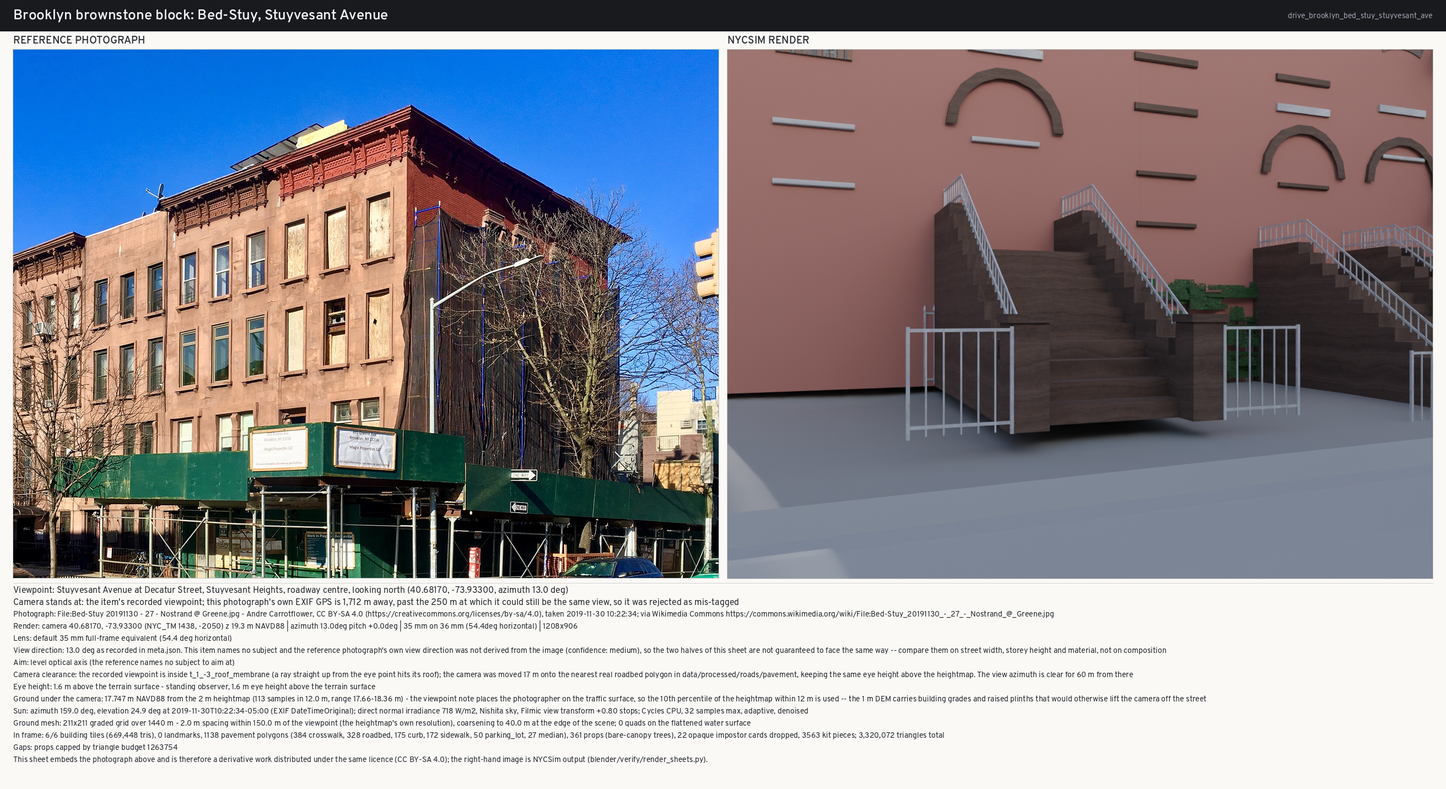
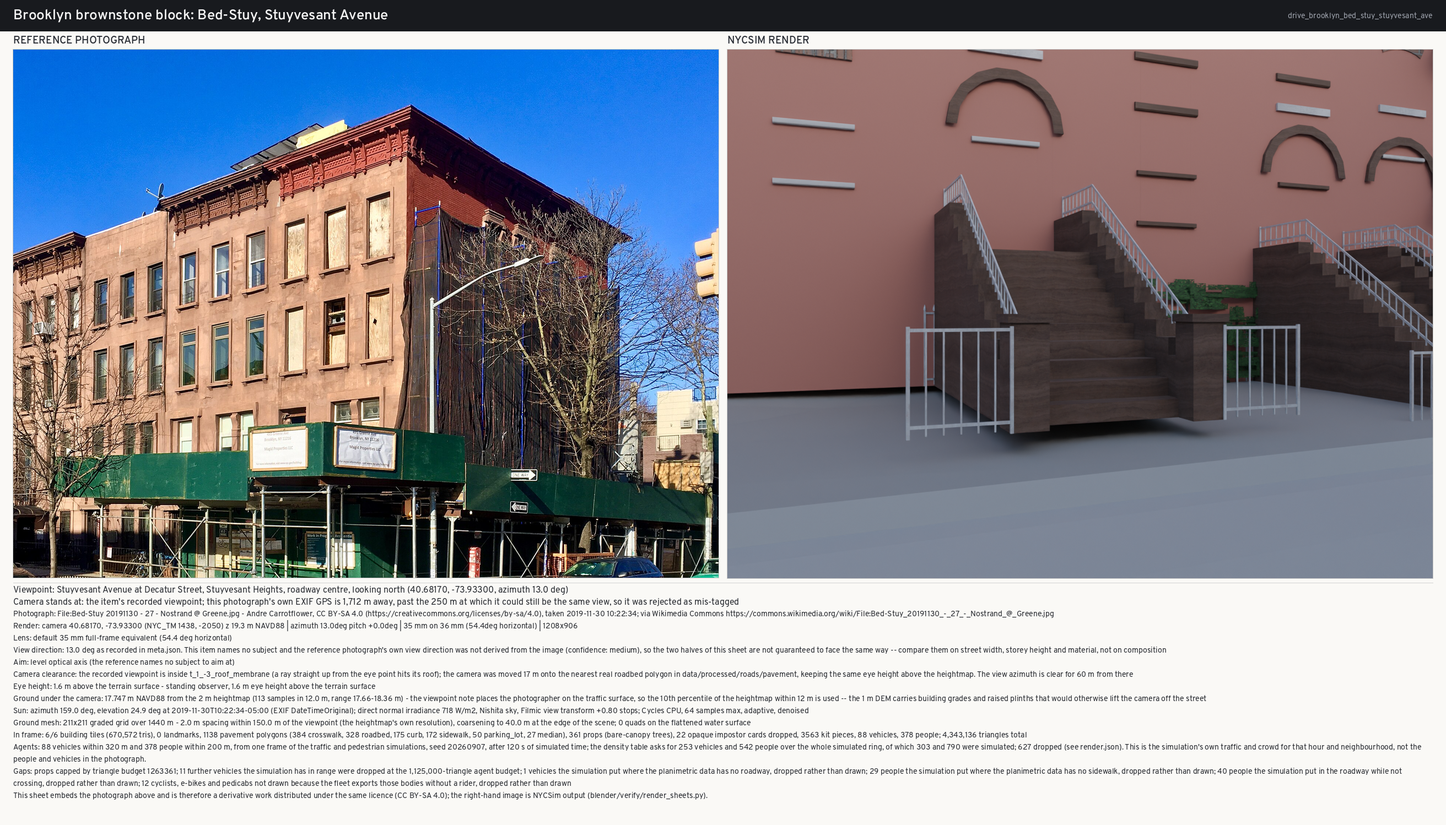
verify: Bed-Stuy re-rendered - the windows are placed and the openings are not
Counted from the placement records rather than read off the picture: 80 kit
pieces stand in the 30 m wedge in front of this camera over 4 buildings, 48 of
them windows, plus 13 window accessories, 6 entry doors, 5 bulkheads, 4 water
towers, 2 fences, 1 cornice, 1 planting.

The windows are placed.  What the frame shows is their arched heads and their
sills floating on a flat salmon plane with no opening, no reveal, no frame and
no glass between them, so a row of brownstones reads as a coloured wall with
white dashes and brown arcs stuck to it.  That sharpens A2 and B12 rather than
adding to them: the gap is not that the facade is bare, it is that everything
except the opening is modelled, and a surround without a window is more
conspicuous than no surround would be.

The stoops themselves are the best hand-scale geometry in the set - cheek walls,
treads, railings, area gates, right height and rhythm for the street.

Two smaller records: the camera stands about five metres from the stoop face at
a 1.6 m eye on a 54.4 deg lens, which is a shopfront distance rather than a
drive-through one and is I14's class again; and of the 88 vehicles and 378
pedestrians in this scene not one is in this frame, because the wall fills it.

Claude-Session: https://claude.ai/code/session_012rCzdfEp56Z5bDvSJLVsiQ

diff --git a/docs/verification/comparison/drive_brooklyn_bed_stuy_stuyvesant_ave/assessment.md b/docs/verification/comparison/drive_brooklyn_bed_stuy_stuyvesant_ave/assessment.md
@@ -25,6 +25,29 @@ description rather than its categories, and this item requires one of `"stuyvesa
 exclusions also now name the subway, the platform and Utica Avenue directly
 (`docs/verification/comparison/REPORT.md` §2.11).
 
+## Re-rendered 2026-09-07, and what this frame is actually showing
+
+The stoops are the good half: brownstone stoops with their cheek walls, treads and railings, area
+gates at the sidewalk, all at the right height and rhythm for a Bed-Stuy row. They are the most
+convincing piece of hand-scale geometry in the set.
+
+The wall behind them is the other half, and this is the clearest frame in the set for one particular
+gap. Counted from the placement records rather than from the picture: **80 kit pieces stand in the
+30 m wedge in front of this camera, over 4 buildings — 48 of them windows**, plus 13 window
+accessories, 6 entry doors, 5 bulkheads, 4 water towers, 2 fences, 1 cornice, 1 planting. The
+windows *are* placed. What the frame shows is their arched heads and their sills, floating on a flat
+salmon plane with **no opening, no reveal, no frame and no glass between them** — so a row of
+brownstones reads as a coloured wall with white dashes and brown arcs stuck to it.
+
+That is deviation A2 and B12 as they were already written, and the numbers are worth adding to them:
+the gap is not that the facade is bare, it is that everything *except* the opening is modelled. The
+surround without the window is more conspicuous than no surround would be.
+
+Two smaller things this frame records. The camera stands about five metres from the stoop face at a
+1.6 m eye on a 54.4° lens, which is a shopfront distance rather than a drive-through one and is the
+same camera-placement class as I14. And of the 88 vehicles and 378 pedestrians the simulation put in
+this scene, **not one is in this frame** — the wall fills it.
+
 ## What matches
 
 * The brownstone block face is genuinely right in kind. The render carries a continuous three-storey brick wall with round-arched window heads, projecting stone lintels and a run of raised stoops with metal railings, which is exactly the Stuyvesant Heights vocabulary and the reason this drive-through area is in the brief.
